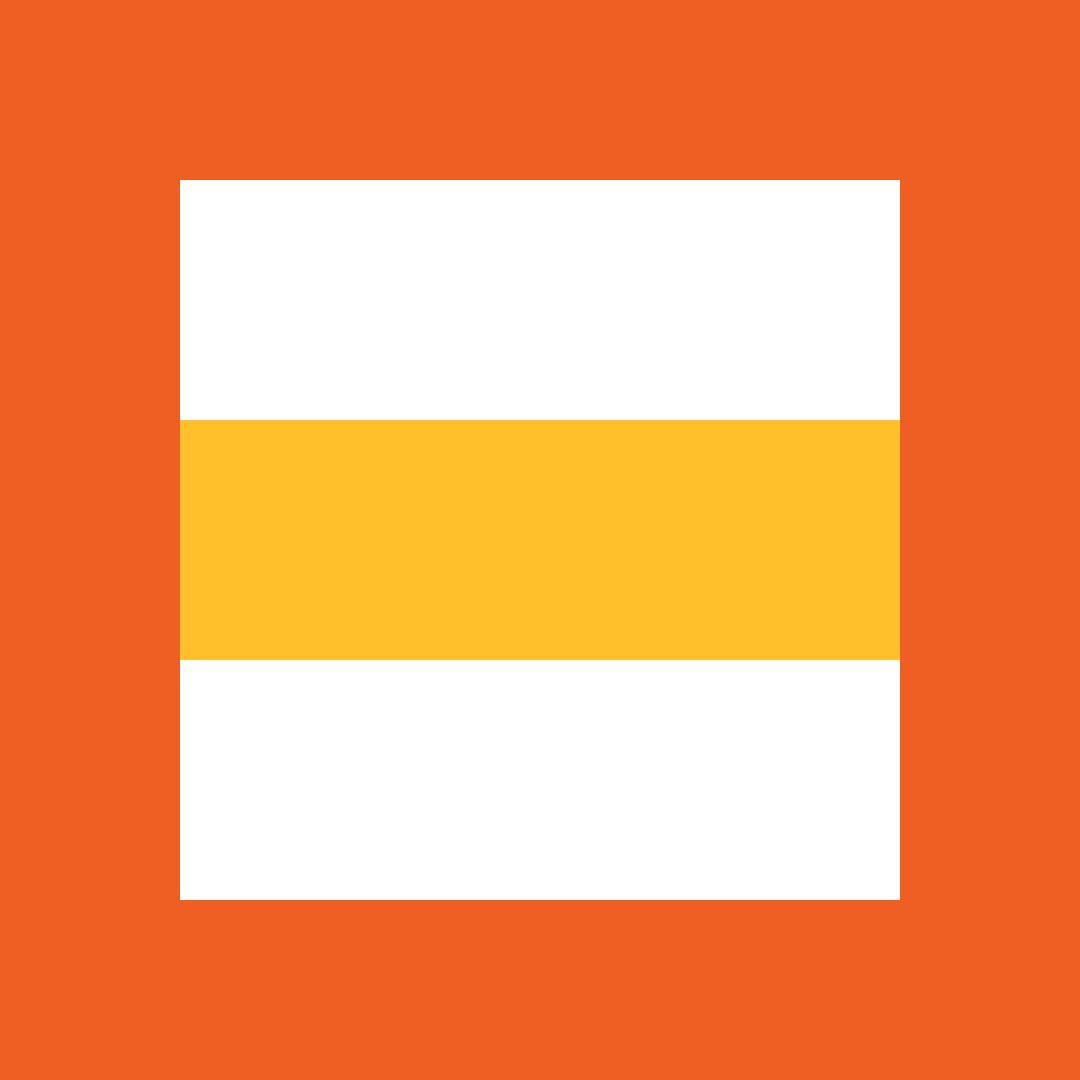
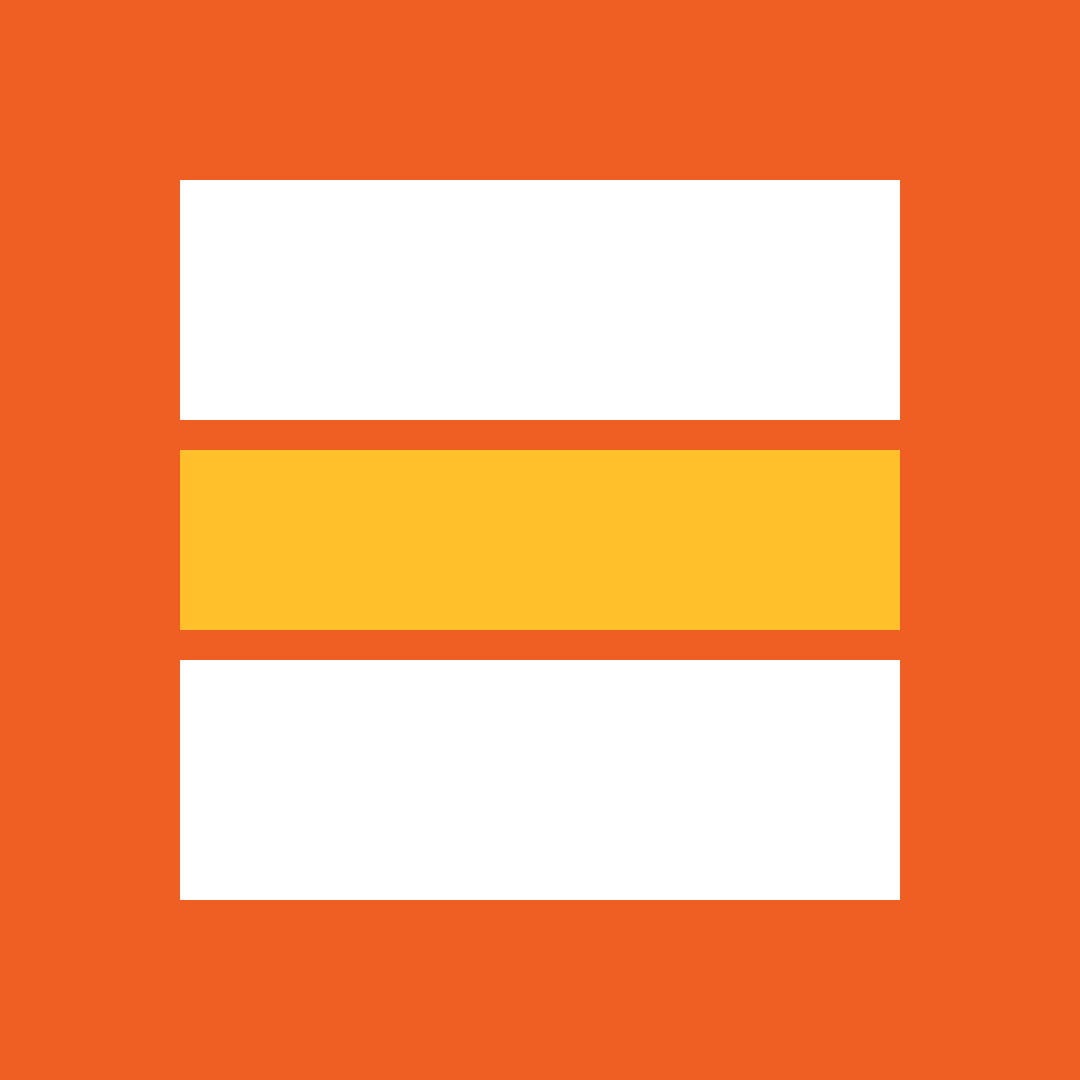
Paint the 3 m lines into the mark
White against yellow is only 1.64:1, so at a favicon's size the middle band
read as a tint rather than a third zone. Two orange lines now bound it.

The grid doubles to 32 units to hold them: a 4-unit rim and a 24-unit
interior standing for the court's 18 m — back zone 8, the two 3 m zones 8
(6 of yellow between two 1-unit lines), back zone 8. Equal thirds survive,
because the lines are cut out of the yellow rather than the white: an
attack line's own width counts as part of the front zone. On the ball they
read as panel seams.

Every edge lands on a whole pixel at 32 px and above; at exactly 16 px with
no device scaling the two lines fall on half pixels and soften, which is
the size at which they matter least.

Claude-Session: https://claude.ai/code/session_01GPYa8jjeHHprD1w4JpTDd6

Changed region(s): [[0.1528, 0.3667, 0.8556, 0.4278], [0.1528, 0.5806, 0.8556, 0.6111]]

diff --git a/index.html b/index.html
@@ -39,11 +39,11 @@
   <div class="wrap header-inner">
     <a class="brand" href="#top">
       <span class="brand-mark" aria-hidden="true">
-        <svg viewBox="0 0 16 16" width="32" height="32" shape-rendering="crispEdges">
-          <rect x="0" y="0" width="16" height="16" fill="#ef5f24"/>
-          <rect x="2" y="2" width="12" height="4" fill="#ffffff"/>
-          <rect x="2" y="6" width="12" height="4" fill="#ffc02b"/>
-          <rect x="2" y="10" width="12" height="4" fill="#ffffff"/>
+        <svg viewBox="0 0 32 32" width="32" height="32" shape-rendering="crispEdges">
+          <rect x="0" y="0" width="32" height="32" fill="#ef5f24"/>
+          <rect x="4" y="4" width="24" height="8" fill="#ffffff"/>
+          <rect x="4" y="13" width="24" height="6" fill="#ffc02b"/>
+          <rect x="4" y="20" width="24" height="8" fill="#ffffff"/>
         </svg>
       </span>
       <span class="brand-text">
